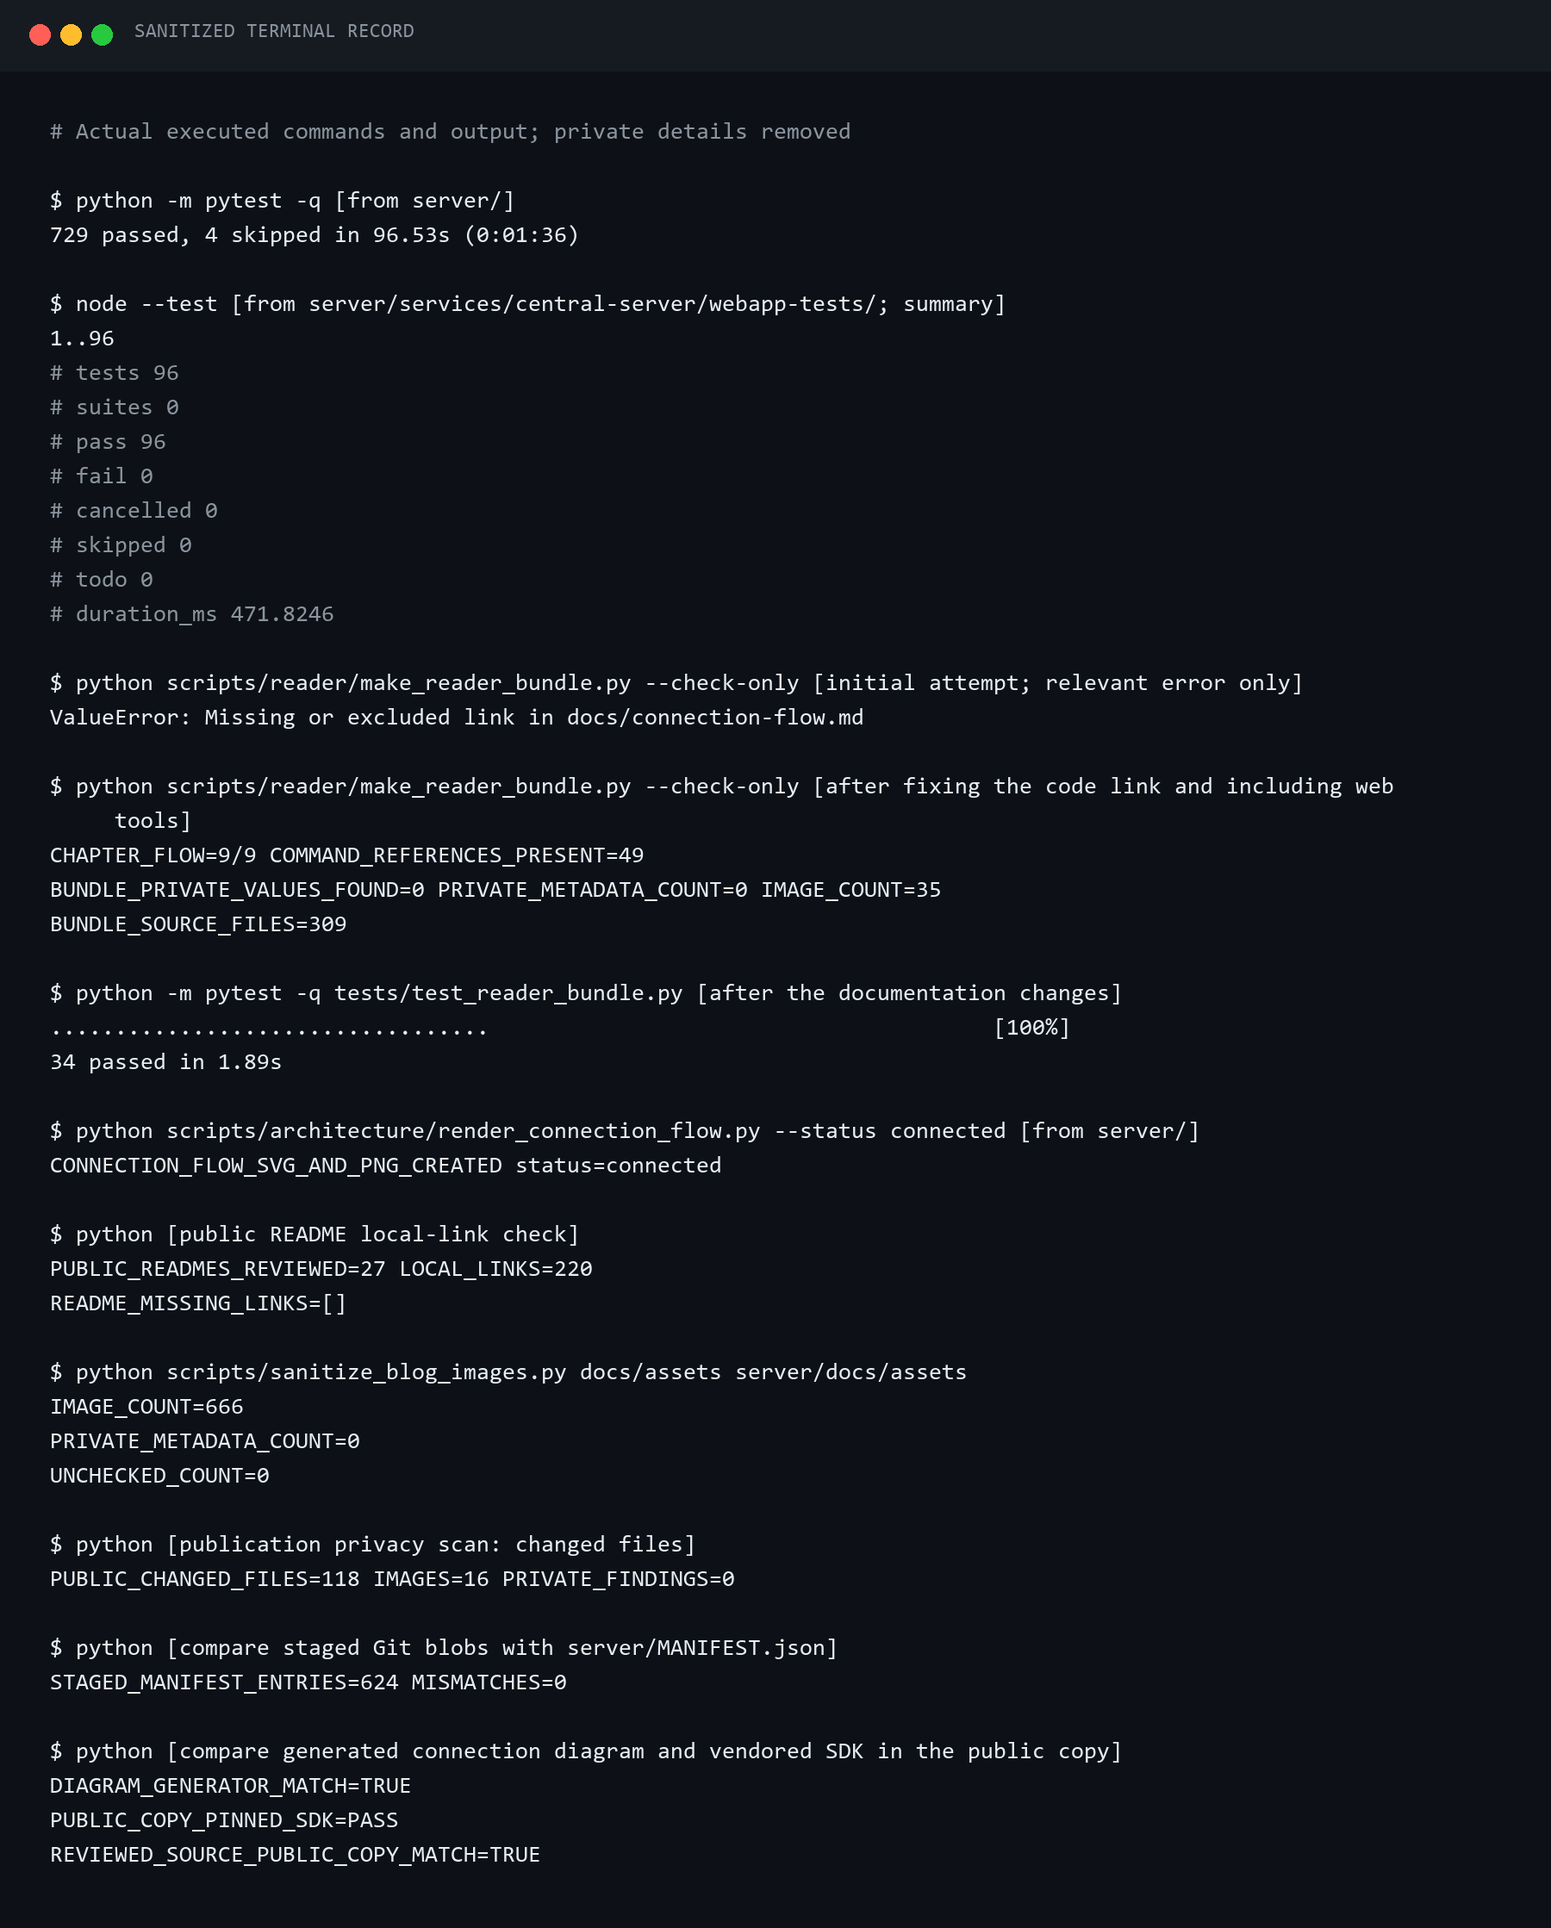
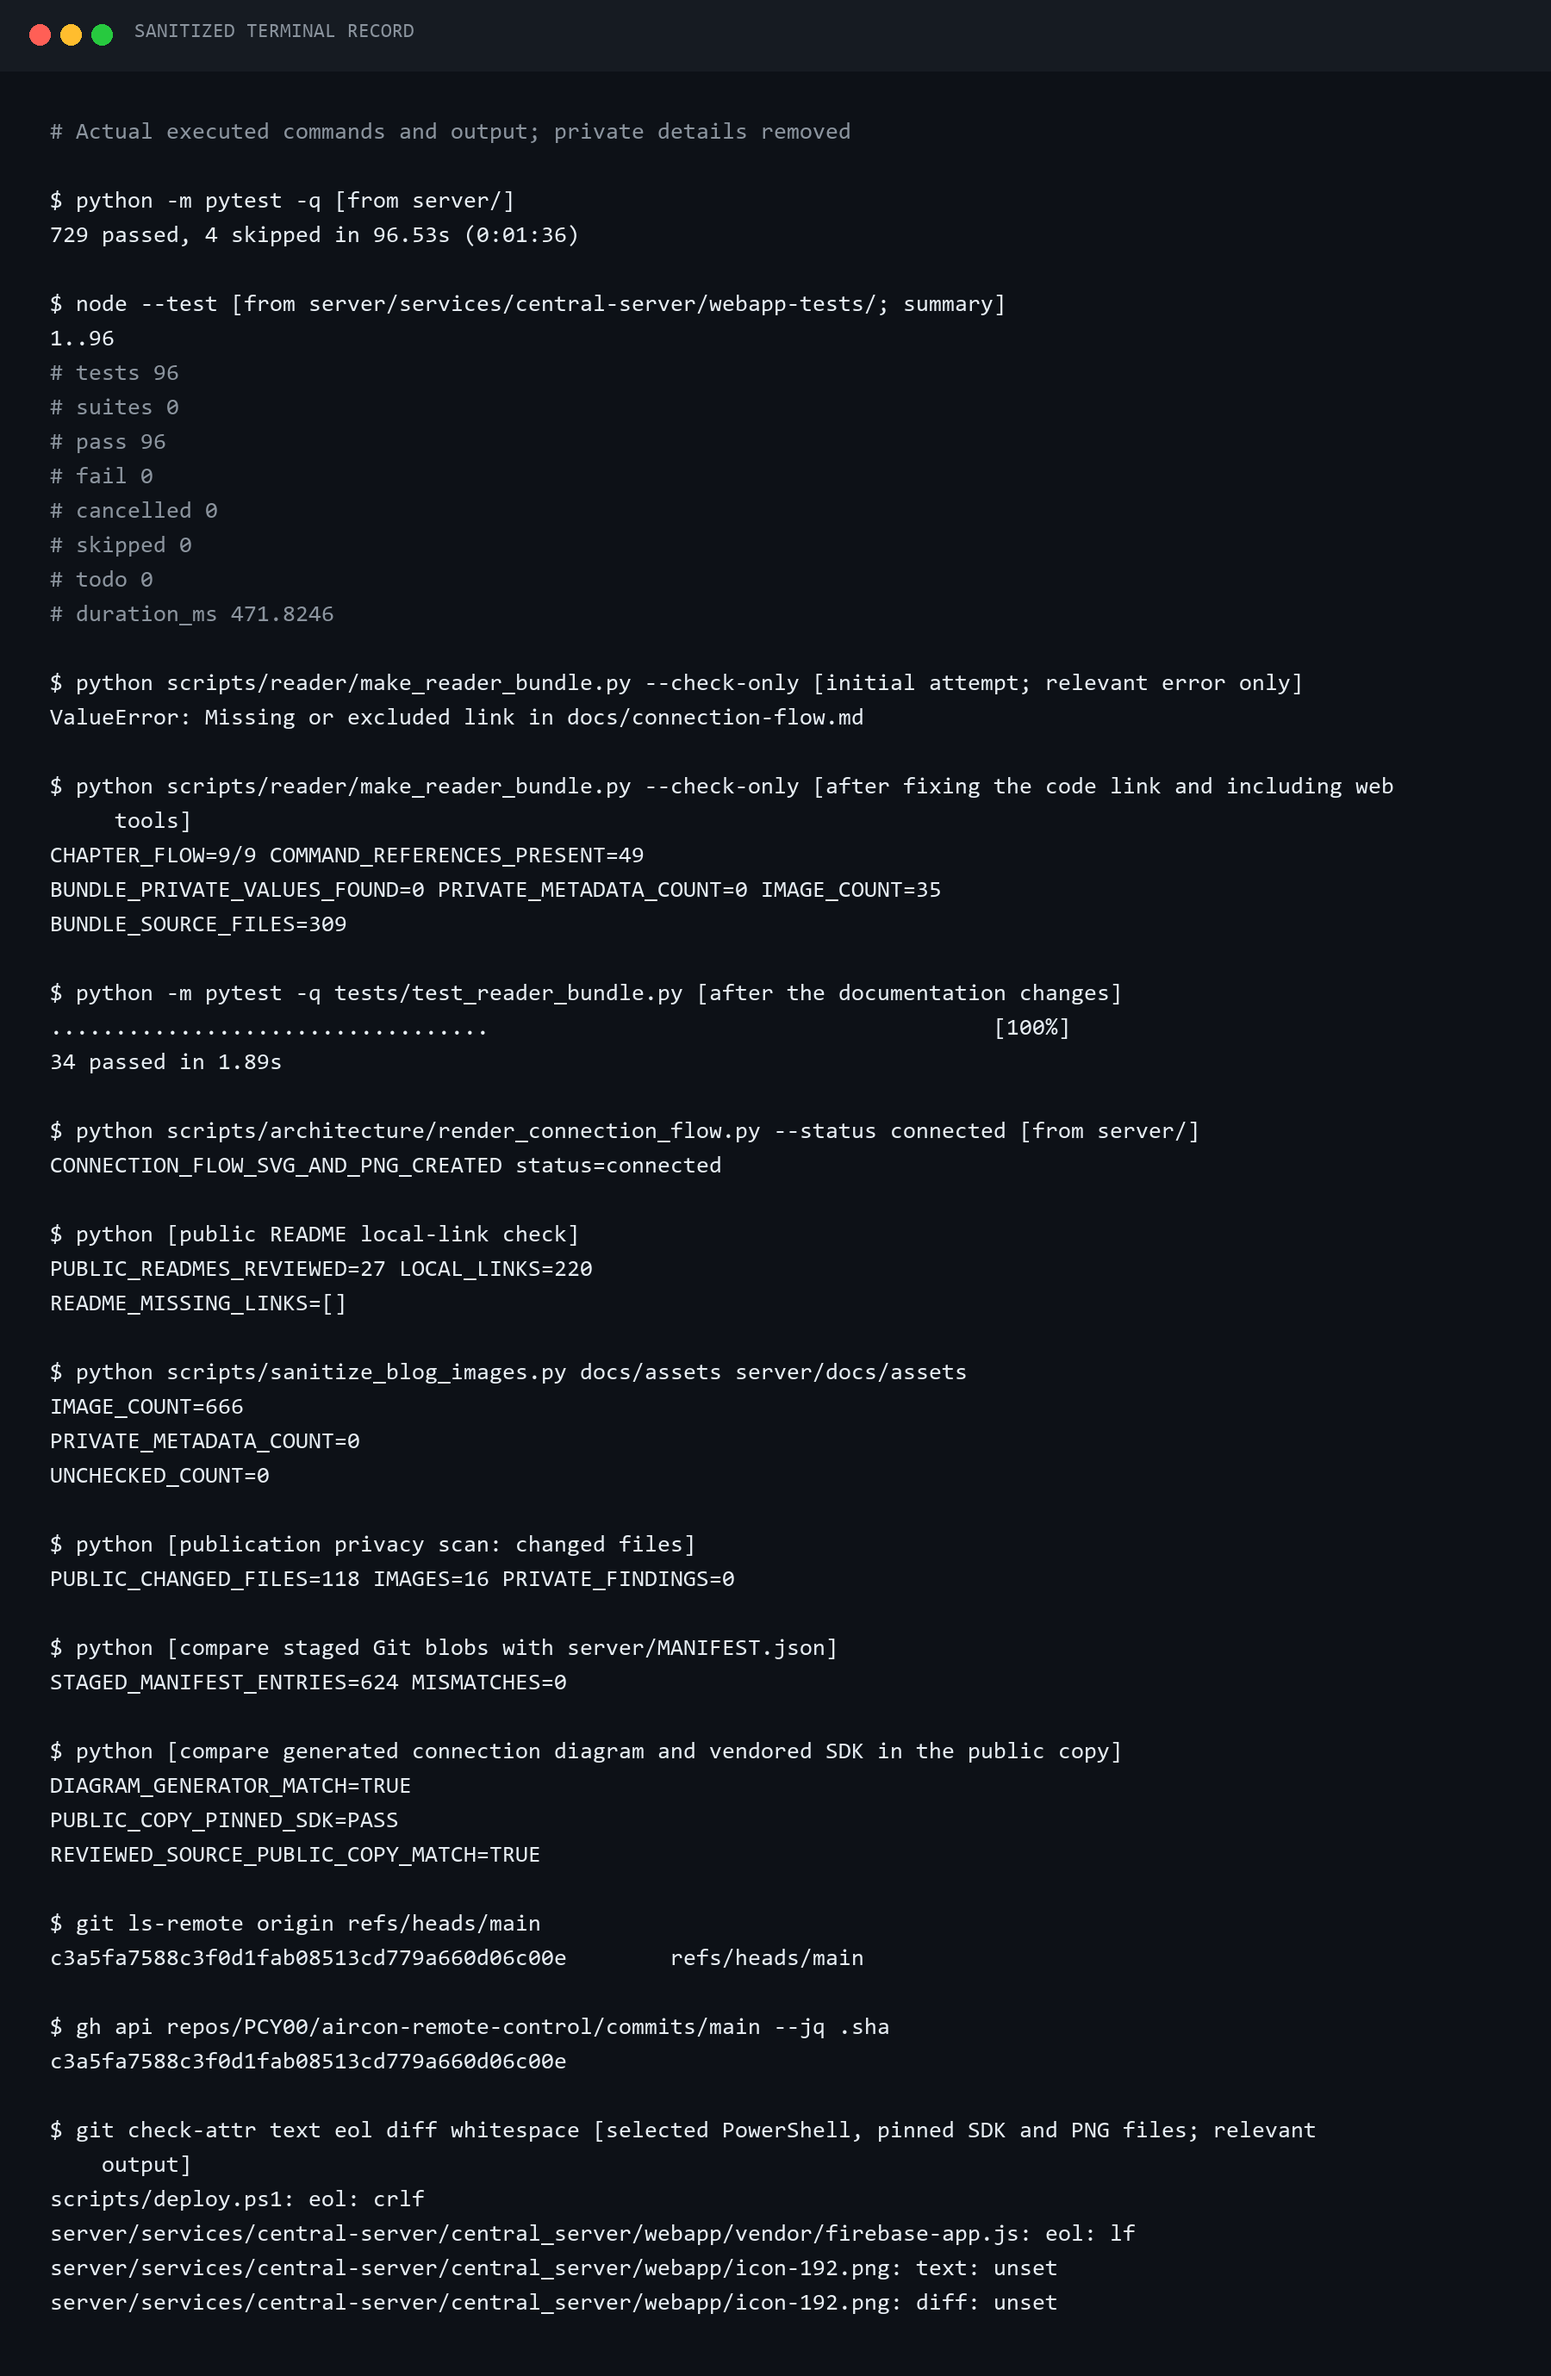
Preserve existing file attributes and record publication results

diff --git a/docs/journal/2026-10-16-smart-home-notification-diary.md b/docs/journal/2026-10-16-smart-home-notification-diary.md
@@ -233,3 +233,12 @@
 　수정한 README와 사용 안내, 연결 그림을 공개 사본에 모았다. 새 변경은 118개 파일이었다. 공개 사본 전체에서 실제 설정값·계정·키를 찾지 못했고, 이번 변경 파일도 따로 확인해 남은 항목이 0개였다. 가짜 차단 시험 자료와 시스템 서비스 이름은 실제 개인정보와 구분했다. 서버 지문의 두 표기도 공개 원문과 그림에서 제거했다.
 
 　Git에 들어갈 실제 파일 624개와 해시 목록이 모두 같았다. Windows에서 내려받을 때 줄바꿈이 바뀌어 고정 SDK 해시가 달라지지 않도록 서버 텍스트는 LF로 받게 했다. 이미지 바이트와 원본 SDK의 확인된 공백은 유지한다. 공개 사본의 SDK 해시도 다시 통과했고 연결 SVG가 생성 코드와 같은 것도 확인했다. 운영 설정·키·DB·APK는 넣지 않았다. 노션 저장과 GitHub 원격 결과는 게시 뒤 한 번 더 읽어 확인한다.
+
+
+## iPhone 웹앱과 전체 안내 업데이트를 GitHub에 올렸다
+
+　중앙 서버 0.8.0·iPhone 웹앱 코드와 README·설치 안내·연결 SVG/PNG·공개 캡처·일기를 GitHub main에 올렸다. 코드 게시 커밋은 `c3a5fa7588c3`다. Git 원격과 GitHub API를 각각 읽어 같은 커밋인 것을 확인했다. 현재와 맞지 않는 안내를 고쳤고, 기록 당시 버전의 실험 자료는 시점을 알 수 있게 유지했다.
+
+　마지막 비교에서 줄바꿈 규칙을 추가하며 기존 PowerShell·이미지 규칙 일부를 덮어쓴 것을 발견했다. 기존 규칙을 복원하고 서버 텍스트의 LF와 SDK 공백 예외만 더했다. 실제 속성을 읽어 PowerShell은 CRLF, SDK는 LF, PNG는 바이너리로 처리되는 것을 확인했다. 이 수정과 게시 결과를 이어 올린다.
+
+　오늘 노션의 스마트홈 알림 일기에 빠진 웹앱 작업·설정 과정, 이번 문서와 그림 수정·실패 원인·해결·게시 결과를 이어 적었다. 비공개 설정·계정·키·실제 DB·APK와 노션 위치 캐시는 올리지 않았다. 실제 iPhone 로그인·홈 화면 추가·푸시 수신, 가족 휴대폰의 실제 문 알림과 장시간 운영은 남아 있다. 이번 게시 작업에서 운영 장비를 다시 배포하거나 물리 에어컨 명령을 보내지 않았다.
